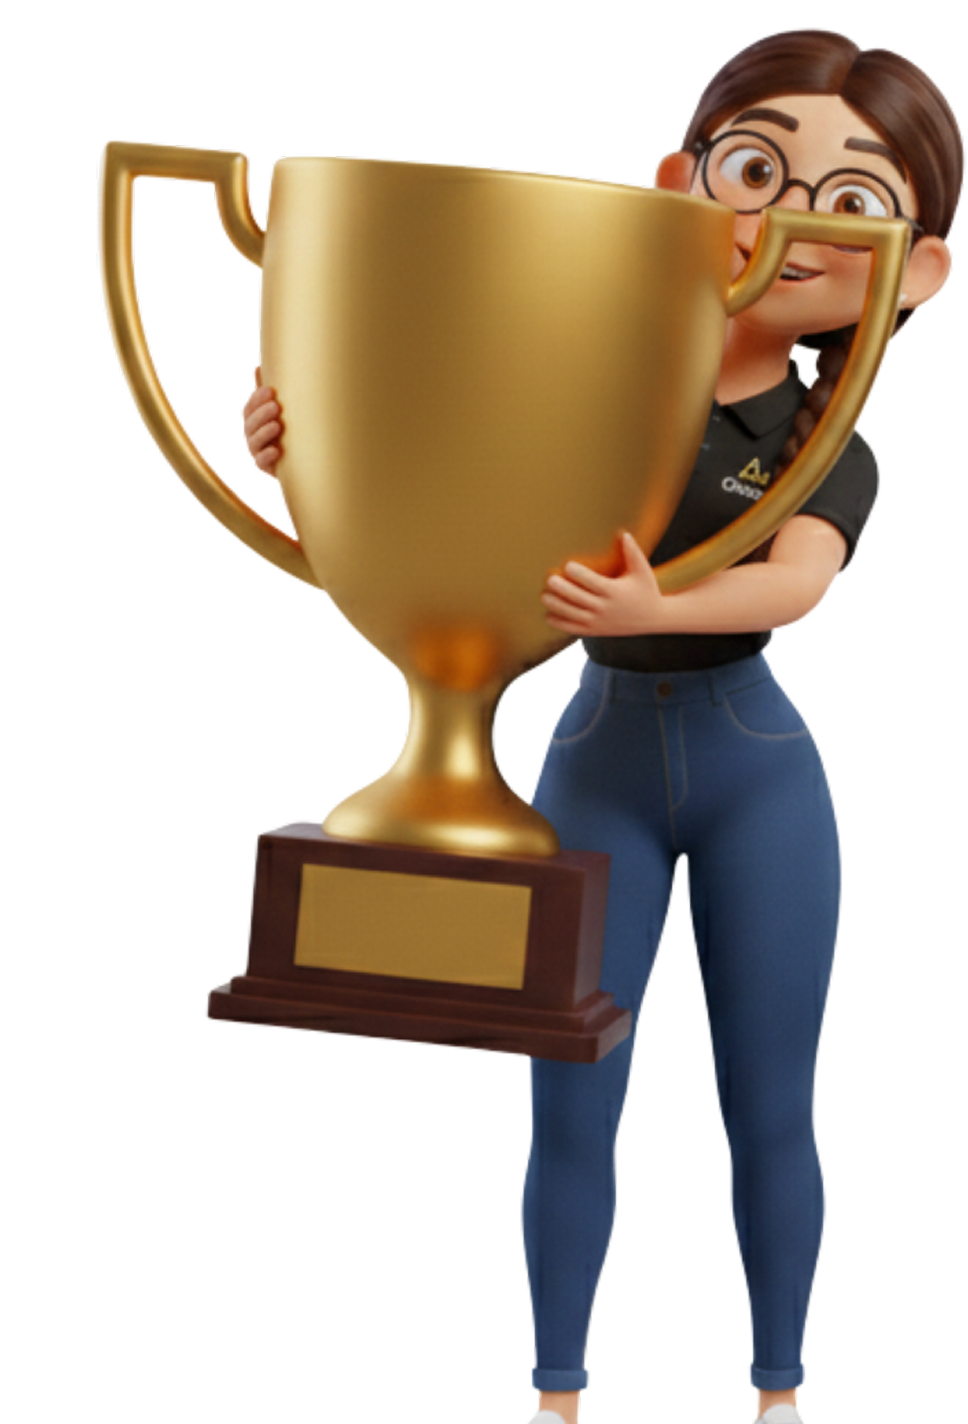
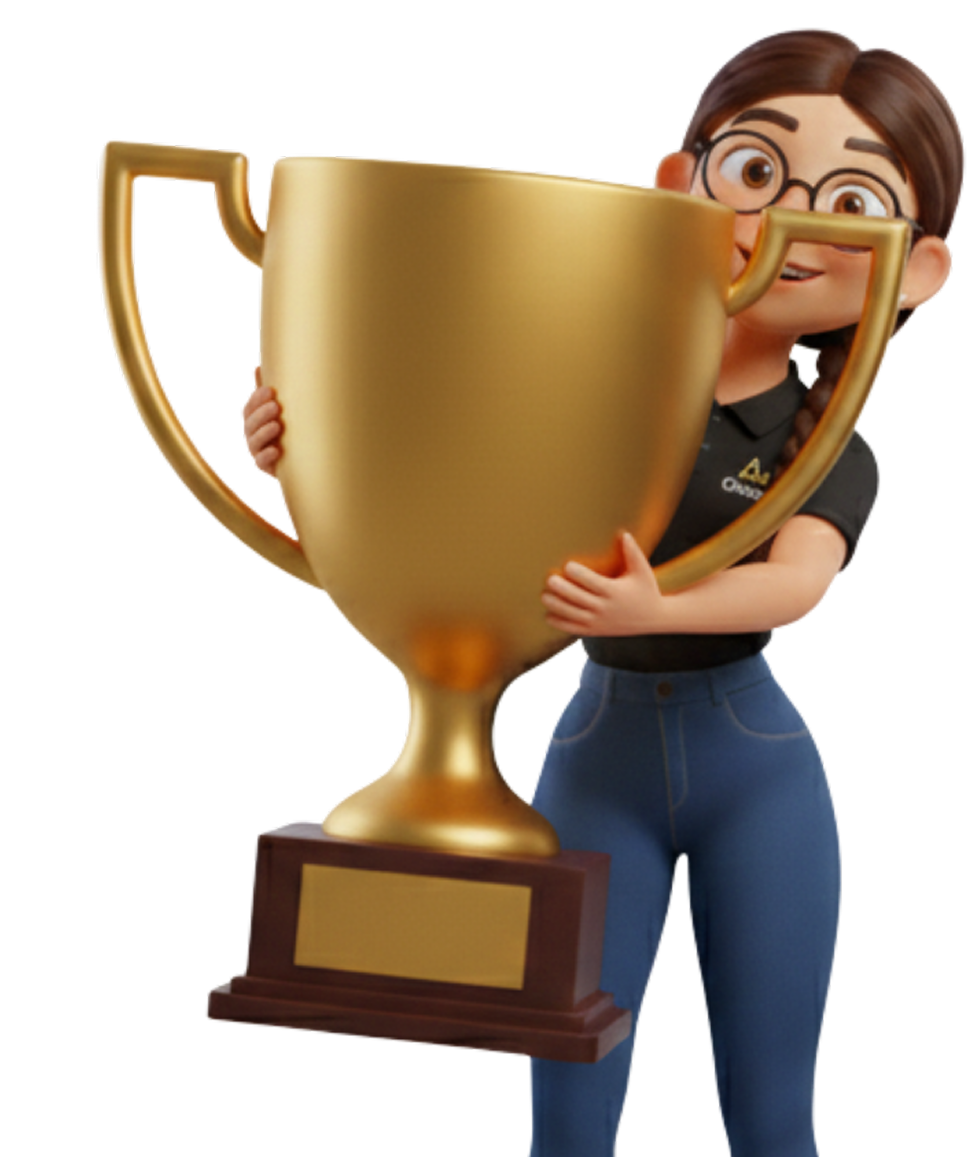
header responsivel atualizado

diff --git a/src/components/Header/Header.jsx b/src/components/Header/Header.jsx
@@ -4,7 +4,14 @@ import "../../global.css";
 import { HeaderModal } from "./HeaderModal";
 import { NavHeaderComponent } from "./NavHeaderComponent";
 import { IoMenuOutline } from "react-icons/io5";
-
+import {
+  FaFacebookF,
+  FaTiktok,
+  FaInstagram,
+  FaLinkedinIn,
+  FaYoutube,
+  FaWhatsapp,
+} from "react-icons/fa6";
 export function Header() {
   const [isModalOpen, setIsModalOpen] = useState(false);
 
@@ -14,8 +21,13 @@ export function Header() {
 
   return (
     <>
-      <header className="pt-4 flex items-center-safe justify-around max-sm:justify-between pl-16 pr-16 w-full border border-black/20 fixed bg-white">
-        <img src={Logo} />
+      <header className="pt-4 flex items-center-safe justify-between max-sm:justify-between pl-16 pr-16 w-full border border-black/20 fixed bg-white">
+
+        <div className="max-md:hidden flex items-center gap-10">
+          <img src={Logo} />
+          <NavHeaderComponent />
+        </div>
+        <img src={Logo} className="md:hidden"/>
         <IoMenuOutline
           aria-label="Abrir Modal"
           size={32}
@@ -23,8 +35,40 @@ export function Header() {
           onClick={() => setIsModalOpen(true)}
         />
 
-        <div className="max-md:hidden">
-          <NavHeaderComponent />
+        <div className="flex items-center gap-5 max-md:hidden">
+          <a target="blank" href="https://www.instagram.com/clevercobranca">
+            <FaInstagram size={20} />
+          </a>
+          <a
+            target="blank"
+            href="https://web.facebook.com/clevercobranca?_rdc=1&_rdr#"
+          >
+            <FaFacebookF size={20} />
+          </a>
+          <a
+            target="blank"
+            href="https://www.tiktok.com/@cleverassessoria1?is_from_webapp=1&sender_device=pc"
+          >
+            <FaTiktok size={20} />
+          </a>
+          <a
+            target="blank"
+            href="https://www.youtube.com/@cleverassessoriaecobranca7043"
+          >
+            <FaYoutube size={20} />
+          </a>
+          <a
+            target="blank"
+            href="https://www.linkedin.com/company/clevercobranca/?viewAsMember=true"
+          >
+            <FaLinkedinIn size={20} />
+          </a>
+          <a
+            target="blank"
+            href="https://api.whatsapp.com/send/?phone=5508000004820&text=Ol%C3%A1,+quero+saber+mais!&type=phone_number&app_absent=0"
+          >
+            <FaWhatsapp size={20} />
+          </a>
         </div>
       </header>
 

diff --git a/src/components/Header/NavHeaderComponent.jsx b/src/components/Header/NavHeaderComponent.jsx
@@ -8,14 +8,7 @@ import {
   DropdownMenuItem,
 } from "../dropdowMenu";
 
-import {
-  FaFacebookF,
-  FaTiktok,
-  FaInstagram,
-  FaLinkedinIn,
-  FaYoutube,
-  FaWhatsapp,
-} from "react-icons/fa6";
+
 import { clsx } from "clsx";
 
 export function NavHeaderComponent() {
@@ -32,7 +25,7 @@ export function NavHeaderComponent() {
     },
     {
       name: "Educação",
-      path: "/blog",
+      path: "/Educacao",
     },
     {
       name: "Quero Pagar",
@@ -45,7 +38,7 @@ export function NavHeaderComponent() {
   ];
 
   return (
-    <nav className={clsx("flex gap-11 max-md:p-4 max-md:flex-col", {})}>
+    <nav className={clsx("flex justify-between gap-11 max-md:p-4 max-md:flex-col", {})}>
       <div className="flex items-center gap-16">
         <ul className={clsx("flex gap-8  max-md:flex-col ")}>
           {items.map((item) => {
@@ -95,41 +88,7 @@ export function NavHeaderComponent() {
         </ul>
       </div>
 
-      <div className="flex items-center gap-3">
-        <a target="blank" href="https://www.instagram.com/clevercobranca">
-          <FaInstagram size={20} />
-        </a>
-        <a
-          target="blank"
-          href="https://web.facebook.com/clevercobranca?_rdc=1&_rdr#"
-        >
-          <FaFacebookF size={20} />
-        </a>
-        <a
-          target="blank"
-          href="https://www.tiktok.com/@cleverassessoria1?is_from_webapp=1&sender_device=pc"
-        >
-          <FaTiktok size={20} />
-        </a>
-        <a
-          target="blank"
-          href="https://www.youtube.com/@cleverassessoriaecobranca7043"
-        >
-          <FaYoutube size={20} />
-        </a>
-        <a
-          target="blank"
-          href="https://www.linkedin.com/company/clevercobranca/?viewAsMember=true"
-        >
-          <FaLinkedinIn size={20} />
-        </a>
-        <a
-          target="blank"
-          href="https://api.whatsapp.com/send/?phone=5508000004820&text=Ol%C3%A1,+quero+saber+mais!&type=phone_number&app_absent=0"
-        >
-          <FaWhatsapp size={20} />
-        </a>
-      </div>
+
     </nav>
   );
 }

diff --git a/src/components/Header/HeaderModal.jsx b/src/components/Header/HeaderModal.jsx
@@ -1,6 +1,14 @@
 import clsx from "clsx";
 import { NavHeaderComponent } from "./NavHeaderComponent";
 import { IoCloseOutline } from "react-icons/io5";
+import {
+  FaFacebookF,
+  FaTiktok,
+  FaInstagram,
+  FaLinkedinIn,
+  FaYoutube,
+  FaWhatsapp,
+} from "react-icons/fa6";
 
 export function HeaderModal({ isModalOpen, setIsModalOpen }) {
   return (
@@ -23,7 +31,44 @@ export function HeaderModal({ isModalOpen, setIsModalOpen }) {
           transform: isModalOpen ? `translate(0px)` : `translate(100%)`,
         }}
       >
-        <NavHeaderComponent />
+        <div className="flex flex-col justify-around">
+          <NavHeaderComponent />
+          <div className="flex items-center gap-5 ">
+            <a target="blank" href="https://www.instagram.com/clevercobranca">
+              <FaInstagram size={20} />
+            </a>
+            <a
+              target="blank"
+              href="https://web.facebook.com/clevercobranca?_rdc=1&_rdr#"
+            >
+              <FaFacebookF size={20} />
+            </a>
+            <a
+              target="blank"
+              href="https://www.tiktok.com/@cleverassessoria1?is_from_webapp=1&sender_device=pc"
+            >
+              <FaTiktok size={20} />
+            </a>
+            <a
+              target="blank"
+              href="https://www.youtube.com/@cleverassessoriaecobranca7043"
+            >
+              <FaYoutube size={20} />
+            </a>
+            <a
+              target="blank"
+              href="https://www.linkedin.com/company/clevercobranca/?viewAsMember=true"
+            >
+              <FaLinkedinIn size={20} />
+            </a>
+            <a
+              target="blank"
+              href="https://api.whatsapp.com/send/?phone=5508000004820&text=Ol%C3%A1,+quero+saber+mais!&type=phone_number&app_absent=0"
+            >
+              <FaWhatsapp size={20} />
+            </a>
+          </div>
+        </div>
         <button
           className="w-max h-max
             hover:cursor-pointer pt-3

diff --git a/src/Pages/Educacao.jsx b/src/Pages/Educacao.jsx
@@ -1,11 +1,12 @@
 import { Header } from "../components/Header/Header"
 import Alan from "../assets/Alan.png"
 import EbookCapa from "../assets/svgs/cobranca-sem-medo.svg"
+import { Footer } from "../components/Footer/Footer"
 export default function Educacao(){
     return(
         <>
             <Header />
-            <main className="mt-25">
+            <main className="mt-25 mb-25">
                 <section className="flex justify-between">
                     <div className="w-2/5 h-full p-14 bg-[#F1B434]">
                         <img className="ml-27" src={Alan}/>
@@ -23,7 +24,7 @@ export default function Educacao(){
                     </div>
                 </section>
 
-                <section className="">
+                <section>
                     <h2 className="text-center font-family-roboto-slab font-bold text-8xl p-7">Produtos Pagos</h2>
 
                     <div className="flex justify-center gap-5">
@@ -51,6 +52,7 @@ export default function Educacao(){
                     </div>                     
                 </section>
             </main>
+            <Footer isBgGray/>
         </>
     )
 }

diff --git a/src/Pages/Serviços.jsx b/src/Pages/Serviços.jsx
@@ -3,6 +3,7 @@ import nossaHistoria from '../assets/nossaHistoria.png'
 import lauraCalendario from '../assets/lauraCalendario.png'
 import LauraTrofeu from '../assets/lauraTrofeu.png'
 import { Header } from '../components/Header/Header'
+import { Footer } from '../components/Footer/Footer'
 
 export default function Serviços() {
     return(
@@ -46,7 +47,7 @@ export default function Serviços() {
                     </div>
                 </section>
 
-                <section className='bg-[#F1B434] p-20'>
+                <section className='bg-[#F1B434] pt-20 pl-20 pr-20'>
                     <h4 className='text-8xl font-bold text-center'>Assessoria Jurídica</h4>
                     <div className='flex mt-5 gap-20'>
                         <img className='w-1/2' src={LauraTrofeu}/>
@@ -58,6 +59,7 @@ export default function Serviços() {
                     </div>
                 </section>
             </main>
+            <Footer />
         </>
     )
 }

diff --git a/src/Pages/Pagar.jsx b/src/Pages/Pagar.jsx
@@ -1,5 +1,6 @@
 import { Header } from "../components/Header/Header";
 import fundoLaura from "../assets/fundoLaura.png"
+import { Footer } from "../components/Footer/Footer";
 
 export default function Pagar() {
     return (
@@ -7,7 +8,7 @@ export default function Pagar() {
             <Header />
             <main className="mt-25">
                 <div className="flex justify-end">
-                    <img src={fundoLaura} alt="" className="-z-10 absolute h-screen" />
+                    <img src={fundoLaura} alt="" className="-z-10 absolute fixed h-full" />
                 </div>
 
                 <h1 className="text-6xl font-family-roboto-slab mt-10 font-bold text-center">Quer quitar suas <span className="text-[#F1B434]">dívida</span>?</h1>
@@ -25,6 +26,8 @@ export default function Pagar() {
                 </div>
 
             </main>
+
+            <Footer isBgGray/>
         </>
     )
 }

diff --git a/src/Pages/Sobre.jsx b/src/Pages/Sobre.jsx
@@ -3,6 +3,7 @@ import LauraManifesto from "../assets/lauraManifesto.png"
 import NossaHistoria from "../assets/nossaHistoria.png"
 import LinhadoTempo from "../assets/svgs/linhadoTempo.svg"
 import { Header } from "../components/Header/Header"
+import { Footer } from "../components/Footer/Footer"
 
 export default function Sobre(){
     return(
@@ -32,6 +33,7 @@ export default function Sobre(){
                     <img className="select-none" draggable='false' onContextMenu={(e) => e.preventDefault()} src={LinhadoTempo} />
                 </section>
             </main>
+            <Footer />
         </>
     )
 }

diff --git a/src/Pages/Cultura.jsx b/src/Pages/Cultura.jsx
@@ -8,6 +8,7 @@ import iconFinanceiro from '../assets/iconFinanceiro.png'
 import iconTrabalhoEquipe from '../assets/iconTrabalhoEquipe.png'
 import iconLegalidade from '../assets/iconLegalidade.png'
 import { Header } from '../components/Header/Header'
+import { Footer } from '../components/Footer/Footer'
 
 export default function Cultura() {
     return (
@@ -79,6 +80,7 @@ export default function Cultura() {
                     </div>
                 </section>
             </main>
+            <Footer isBgGray/>
         </>
     )
 }

diff --git a/src/Pages/Home.jsx b/src/Pages/Home.jsx
@@ -18,7 +18,7 @@ export default function Home() {
       <div className="min-h-screen">
         <Header />
         {/* main mantém a altura fixa */}
-        <div className="2xl:pt-28 max-md:pt-28">
+        <div className="2xl:pt-25 max-md:pt-28">
           <main className="h-full">
             <section className="lg:h-screen flex items-center  max-lg:flex-col">
               <div id="aside" className="flex flex-col gap-6 px-20">
